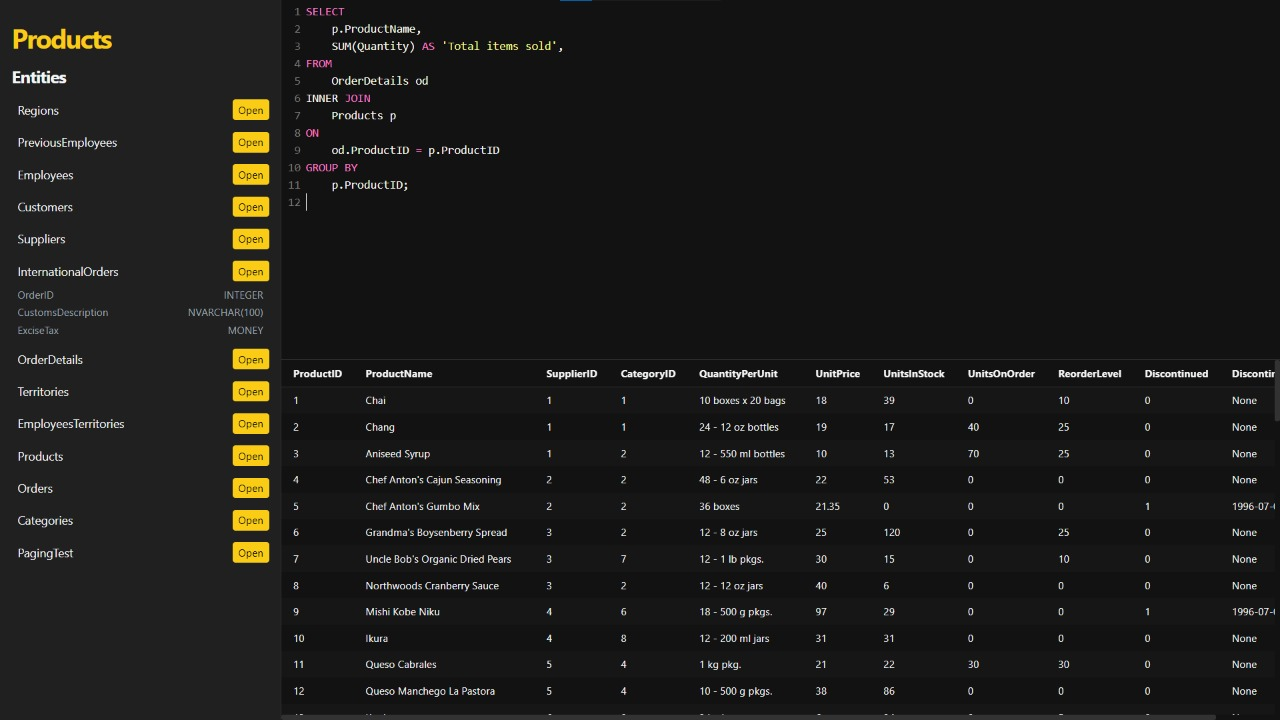
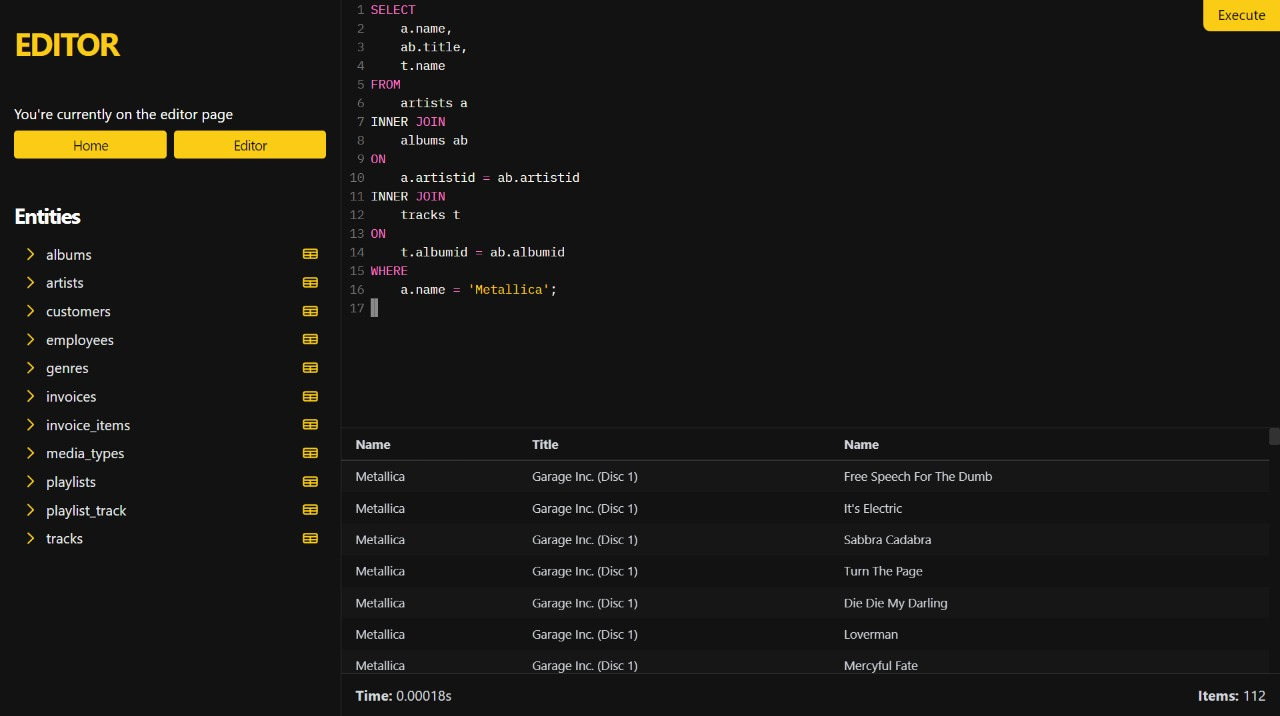
feat: facelift the frontend client

diff --git a/sql_viewer/templates/_macros.html b/sql_viewer/templates/_macros.html
@@ -11,7 +11,7 @@
 <li>
   <details class="mb-2 outline-none">
     <summary class="
-        pl-2
+        px-2
         mb-1
         flex
         items-center
@@ -20,26 +20,30 @@
         transition
         hover:bg-[#323232]
       ">
-      <span>{{ schema.name }}</span>
-      <a class="
-          py-1
-          px-2
-          bg-yellow-400
-          text-xs
-          text-black
-          rounded
-          transition
-          hover:brightness-75
-        " href="{{ '/tables/' + schema.name }}">Open
+      <div class="flex items-center gap-2">
+        <svg xmlns="http://www.w3.org/2000/svg" class="h-5 w-5 text-yellow-400" fill="none" viewBox="0 0 24 24"
+          stroke="currentColor">
+          <path stroke-linecap="round" stroke-linejoin="round" stroke-width="2" d="M9 5l7 7-7 7" />
+        </svg>
+        <span>{{ schema.name }}</span>
+      </div>
+      <a href="{{ '/tables/' + schema.name }}" title="Open the table '{{ schema.name }}'">
+        <svg xmlns="http://www.w3.org/2000/svg" class="h-6 w-5 text-yellow-400" fill="none" viewBox="0 0 24 24"
+          stroke="currentColor">
+          <path stroke-linecap="round" stroke-linejoin="round" stroke-width="2"
+            d="M3 10h18M3 14h18m-9-4v8m-7 0h14a2 2 0 002-2V8a2 2 0 00-2-2H5a2 2 0 00-2 2v8a2 2 0 002 2z" />
+        </svg>
       </a>
     </summary>
-    <div class="border-l border-[#323232] ml-2">
+    <div class="border-l border-[#323232] ml-4">
       {{ table_schema_info(schema.schema) }}
     </div>
   </details>
 </li>
-{% endmacro %} {% macro sql_editor() %}
-<form class="w-full h-[50vh] border-b border-[#323232] relative" method="POST">
+{% endmacro %}
+
+{% macro sql_editor() %}
+<form class="w-full h-[60vh] border-b border-[#323232] relative" method="POST">
   <button type="button" class="
       absolute
       top-0
@@ -65,15 +69,52 @@
   <h2 class="text-4xl font-bold tracking-tighter text-yellow-400 uppercase">
     {{ tablename }}
   </h2>
-  <button
-    class="py-1 mt-8 mb-4 font-bold tracking-tighter text-center text-[#121212] bg-yellow-400 rounded hover:brightness-90">
-    <a href="/editor">Editor</a>
-  </button>
+  <p class="mt-12 mb-2">{{"You're currently viewer records for table " + tablename + "." if tablename != "Editor" else
+    "You're currently on the editor page"}}</p>
+  <div class="mb-8 grid grid-cols-2 gap-2">
+    <a href="/" class="py-1 tracking-tighter text-center text-[#121212] bg-yellow-400 rounded hover:brightness-90">
+      Home
+    </a>
+    <a href="/editor"
+      class="py-1 tracking-tighter text-center text-[#121212] bg-yellow-400 rounded hover:brightness-90">
+      Editor
+    </a>
+  </div>
   <h3 class="my-4 text-2xl font-bold tracking-tighter">Entities</h3>
-  <ul class="w-full">
+  <ul class="w-full text-gray-200">
     {% for schema in database_schema %}
     {{ table_schema(schema) }}
     {% endfor %}
   </ul>
 </nav>
+{% endmacro %}
+
+{% macro table_view(entries, size = "full") %}
+<div
+  class="h-[{{ 'calc(100vh-3rem)' if size == 'full' else 'calc(40vh-3rem)' }}] overflow-auto bg-[#121212] text-gray-300">
+  <table class="w-full text-sm relative">
+    <thead class="border-b border-[#323232] sticky top-0">
+      <tr class="bg-[#121212] text-left">
+        {% for column_name in entries.schema %}
+        <th class="py-2 px-4 transition hover:bg-[#323232]">
+          {{ column_name }}
+        </th>
+        {% endfor %}
+      </tr>
+    </thead>
+    <tbody>
+      {% for item in entries.results %}
+      <tr class="{{ 'bg-[#161616]' if loop.index0 % 2 == 0 else 'bg-[#121212]' }}">
+        {% for value in item %}
+        <td class="py-2 px-4 truncate hover:bg-[#323232]">{{ value }}</td>
+        {% endfor %}
+      </tr>
+      {% endfor %}
+    </tbody>
+  </table>
+</div>
+<div class="border-t border-[#323232] px-4 h-[3rem] flex items-center justify-between text-gray-300">
+  <p><b>Time:</b> {{ "%.5f"|format(entries.time) }}s</p>
+  <p><b>Items:</b> {{ entries.items }}</p>
+</div>
 {% endmacro %}

diff --git a/sql_viewer/templates/editor.html b/sql_viewer/templates/editor.html
@@ -1,4 +1,4 @@
-{% from "_macros.html" import database_navbar, sql_editor %}
+{% from "_macros.html" import database_navbar, sql_editor, table_view %}
 
 
 {% extends "base.html" %}
@@ -22,35 +22,10 @@ SQL Viewer | Title
   <div class="w-[calc(100vw-24rem)] overflow-auto flex flex-col">
     {{ sql_editor() }}
     {% if entries %}
-    <div class="h-[calc(50vh-3rem)] overflow-auto bg-[#121212]">
-      <table class="w-full text-sm relative">
-        <thead class="border-b border-[#323232] sticky top-0">
-          <tr class="bg-[#121212] text-left">
-            {% for column_name in entries.schema %}
-            <th class="py-2 px-4 transition hover:bg-[#323232]">
-              {{ column_name }}
-            </th>
-            {% endfor %}
-          </tr>
-        </thead>
-        <tbody>
-          {% for item in entries.results %}
-          <tr class="{{ 'bg-[#161616]' if loop.index0 % 2 == 0 else 'bg-[#121212]' }}">
-            {% for value in item %}
-            <td class="py-2 px-4 truncate hover:bg-[#323232]">{{ value }}</td>
-            {% endfor %}
-          </tr>
-          {% endfor %}
-        </tbody>
-      </table>
-    </div>
-    <div class="border-t border-[#323232] px-4 h-[3rem] flex items-center justify-between">
-      <p><b>Time:</b> {{ "%.5f"|format(time) }}s</p>
-      <p><b>Items:</b> {{ items }}</p>
-    </div>
+    {{ table_view(entries, "small") }}
     {% else %}
-    <div class="h-[50vh] bg-[#121212] flex items-center justify-center">
-      <h3 class="text-3xl text-[#565656] tracking-tighter text-center">Write your query in the editor to get a view of
+    <div class="h-[40vh] bg-[#121212] flex items-center justify-center">
+      <h3 class="text-2xl text-[#565656] tracking-tighter text-center">Write your query in the editor to get a view of
         the
         results
       </h3>

diff --git a/sql_viewer/templates/index.html b/sql_viewer/templates/index.html
@@ -7,20 +7,23 @@ content %}
   <h2 class="mb-8 text-4xl font-bold tracking-tighter">Tables</h2>
   <div class="grid grid-cols-4 gap-4">
     {% for table in tables %}
-    <a
-      class="
-        bg-yellow-400
-        text-black
-        py-2
-        px-4
-        rounded
-        transition
-        hover:brightness-90
-      "
-      href="{{ '/tables/' + table.name }}"
-      >{{ table.name }}</a
-    >
+    <a href="/tables/{{ table.name }}"
+      class="bg-[#202020] p-4 flex flex-col items-start rounded-xl border border-[#323232] transition transform duration-300 hover:shadow-xl hover:-translate-y-2">
+      <div class="bg-yellow-400 p-4 rounded-full">
+        <svg xmlns="http://www.w3.org/2000/svg" class="h-8 w-8 text-[#121212]" fill="none" viewBox="0 0 24 24"
+          stroke="currentColor">
+          <path stroke-linecap="round" stroke-linejoin="round" stroke-width="2"
+            d="M4 7v10c0 2.21 3.582 4 8 4s8-1.79 8-4V7M4 7c0 2.21 3.582 4 8 4s8-1.79 8-4M4 7c0-2.21 3.582-4 8-4s8 1.79 8 4m0 5c0 2.21-3.582 4-8 4s-8-1.79-8-4" />
+        </svg>
+      </div>
+      <h1 class="pt-4 text-xl font-bold text-white tracking-tighter uppercase">{{ table.name }}</h1>
+      <p class="text-[#565656]">Click on the card to open the {{ table.name }} table</p>
+    </a>
     {% endfor %}
+  </div>
+  <div class="mt-8 text-center text-lg">
+    Support the project by giving it a star on <a class="text-yellow-400 hover:underline"
+      href="https://github.com/Nxrth-x/sql-viewer" target="_blank">GitHub</a>
   </div>
 </main>
 {% endblock %}

diff --git a/sql_viewer/templates/table.html b/sql_viewer/templates/table.html
@@ -1,5 +1,5 @@
 {# Macros #}
-{% from "_macros.html" import table_schema, sql_editor, database_navbar %}
+{% from "_macros.html" import table_schema, sql_editor, database_navbar, table_view %}
 
 {# Base template #}
 {% extends "base.html" %}
@@ -14,32 +14,6 @@ SQL Viewer | {{ tablename }}
   {{ database_navbar(database_schema, tablename) }}
   <div class="w-[calc(100vw-24rem)] overflow-auto flex flex-col">
     {# sql_editor() #}
-    <div class="h-[calc(100vh-3rem)] overflow-auto bg-[#121212]">
-      <table class="w-full text-sm relative">
-        <thead class="border-b border-[#323232] sticky top-0">
-          <tr class="bg-[#121212] text-left">
-            {% for column_name in entries.schema %}
-            <th class="py-2 px-4 transition hover:bg-[#323232]">
-              {{ column_name }}
-            </th>
-            {% endfor %}
-          </tr>
-        </thead>
-        <tbody>
-          {% for item in entries.results %}
-          <tr class="{{ 'bg-[#161616]' if loop.index0 % 2 == 0 else 'bg-[#121212]' }}">
-            {% for value in item %}
-            <td class="py-2 px-4 truncate hover:bg-[#323232]">{{ value }}</td>
-            {% endfor %}
-          </tr>
-          {% endfor %}
-        </tbody>
-      </table>
-    </div>
-    <div class="border-t border-[#323232] px-4 h-[3rem] flex items-center justify-between">
-      <p><b>Time:</b> {{ "%.5f"|format(time) }}s</p>
-      <p><b>Items:</b> {{ items }}</p>
-    </div>
-  </div>
+    {{ table_view(entries, size="full") }}
 </main>
 {% endblock %}

diff --git a/sql_viewer/templates/base.html b/sql_viewer/templates/base.html
@@ -10,10 +10,11 @@
   <title>{% block title %}{% endblock %}</title>
   <link rel="stylesheet" href="/static/css/globals.css" />
   <script type="text/javascript" src="https://cdn-tailwindcss.vercel.app/3.0.0-alpha.1"></script>
+  <link rel="shortcut icon" href="/static/assets/favicon.png" type="image/x-icon">
   {% endblock %}
 </head>
 
-<body class="bg-[#202020] text-white">
+<body class="bg-[#121212] text-white">
   {% block content %}
   {% endblock %}
 </body>

diff --git a/sql_viewer/static/css/globals.css b/sql_viewer/static/css/globals.css
@@ -17,16 +17,12 @@ details {
   user-select: none;
 }
 
-details summary svg {
+details summary div > svg {
+  transform: rotate(0);
+}
+
+details[open] summary div > svg {
   transform: rotate(90deg);
-}
-
-details[open] summary svg {
-  transform: rotate(-90deg);
-}
-
-details[open] summary ~ * {
-  animation: ease-opacity-t-b 0.5s ease;
 }
 
 summary {

diff --git a/sql_viewer/static/css/codemirror.css b/sql_viewer/static/css/codemirror.css
@@ -90,7 +90,7 @@
 .CodeMirror {
   height: 100% !important;
   font-family: 'IBM Plex Mono', sans-serif !important;
-  font-size: 15px !important;
+  font-size: 14px !important;
 }
 
 .CodeMirror-cursor {
